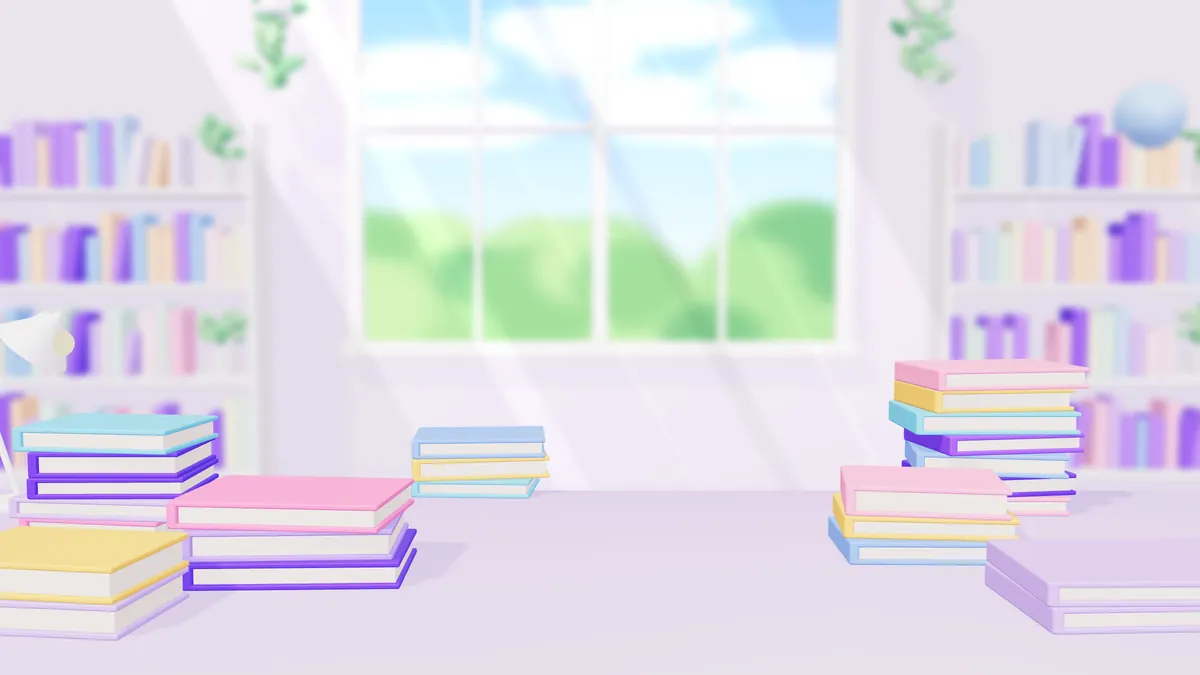
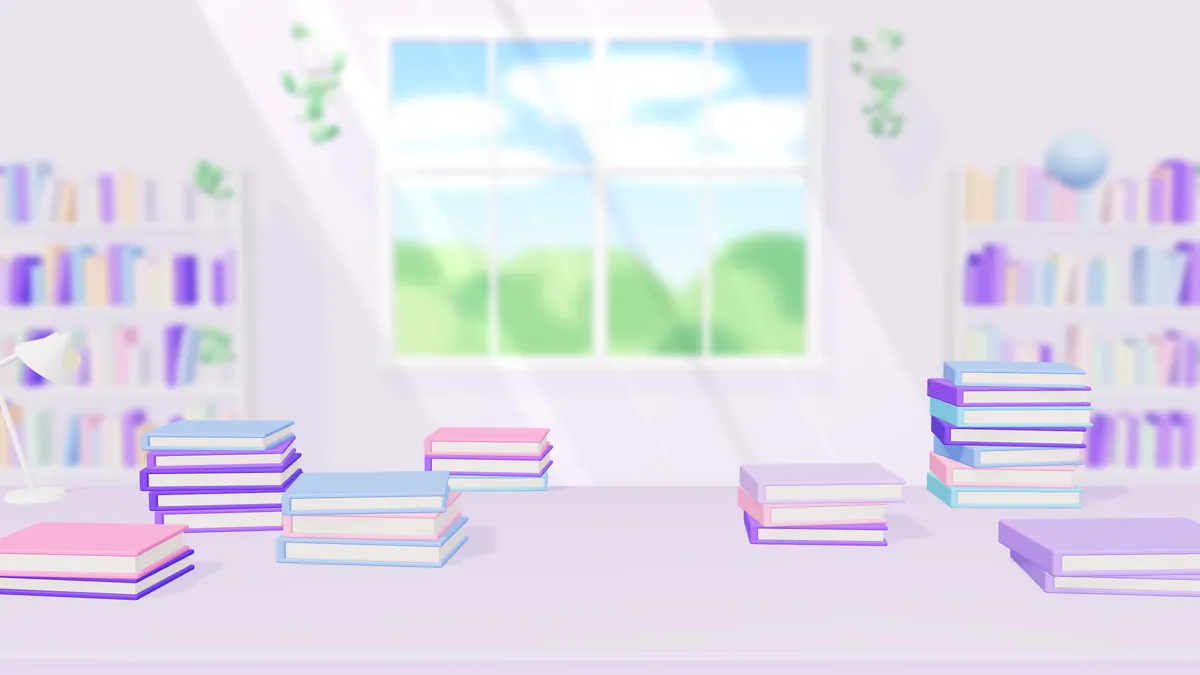
Balance the heroes on wide screens and refresh the stats
- Hero copy keeps hugging the left rail instead of drifting to the middle
- Wider content rail above 1500px so pages stop floating in empty margins
- About room camera pulled back: the cast reads smaller and evenly spaced
- Stats now read 500+, 10,000+, 4.9/5 and 10+ AP STEM subjects
- Bigger founder portrait with stickers clear of the copy

diff --git a/frontend/src/pages/AboutUsPage.css b/frontend/src/pages/AboutUsPage.css
@@ -100,8 +100,8 @@
 .ace-about__live-acey {
   position: absolute;
   left: 50%;
-  top: 42%;
-  height: 55%;
+  top: 46.5%;
+  height: 45.3%;
   aspect-ratio: 540 / 690;
   z-index: 20;
   padding: 0;
@@ -300,7 +300,7 @@
 .ace-about__founder {
   position: relative;
   display: grid;
-  grid-template-columns: minmax(0, 1fr) minmax(0, .92fr) minmax(0, 1.05fr);
+  grid-template-columns: minmax(0, .92fr) minmax(0, 1.16fr) minmax(0, 1fr);
   gap: 26px;
   align-items: center;
   margin-top: 30px;
@@ -335,7 +335,7 @@
 .ace-about__founder-copy .ace-about__body strong { color: var(--ace-ink); font-weight: 850; }
 .ace-about__founder-copy .ace-about__btn { margin-top: 22px; }
 
-.ace-about__founder-photo { position: relative; padding: 26px 18px 34px; }
+.ace-about__founder-photo { position: relative; padding: 30px 8px 40px; }
 .ace-about__founder-frame {
   position: relative;
   z-index: 1;
@@ -368,11 +368,11 @@
 /* stickers */
 .ace-about__sticker { position: absolute; z-index: 2; pointer-events: none; filter: drop-shadow(0 8px 12px rgba(120, 80, 190, .18)); }
 .is-visible .ace-about__sticker { animation: ace-about-float 5.4s ease-in-out infinite; }
-.ace-about__sticker--brain-a { left: -9%; top: 0; width: 32%; animation-delay: -.8s; }
-.ace-about__sticker--brain-b { right: -9%; bottom: 18%; width: 30%; animation-delay: -2.4s; }
-.ace-about__sticker--heart-a { right: -6%; top: 2%; width: 26%; animation-delay: -1.6s; }
-.ace-about__sticker--heart-b { left: 0; bottom: 6%; width: 23%; animation-delay: -3.2s; }
-.ace-about__sticker--robot { left: -12%; bottom: 22%; width: 27%; animation-delay: -2s; }
+.ace-about__sticker--brain-a { left: -5%; top: 0; width: 30%; animation-delay: -.8s; }
+.ace-about__sticker--brain-b { right: -6%; bottom: 18%; width: 28%; animation-delay: -2.4s; }
+.ace-about__sticker--heart-a { right: -3%; top: 2%; width: 24%; animation-delay: -1.6s; }
+.ace-about__sticker--heart-b { left: 4%; bottom: 4%; width: 22%; animation-delay: -3.2s; }
+.ace-about__sticker--robot { left: -5%; bottom: 20%; width: 25%; animation-delay: -2s; }
 .ace-about__sticker--twinkle-a { left: 16%; top: -2%; width: 8%; animation: ace-about-twinkle 3.2s ease-in-out infinite; }
 .ace-about__sticker--twinkle-b { right: 16%; top: 40%; width: 7%; animation: ace-about-twinkle 3.8s ease-in-out .7s infinite; }
 .ace-about__sticker--twinkle-c { left: 24%; bottom: 2%; width: 6.5%; animation: ace-about-twinkle 4.2s ease-in-out 1.4s infinite; }
@@ -491,7 +491,7 @@
   .ace-about { padding-inline: 16px; }
   .ace-about .ace-about__hero { margin-inline: -16px; padding-inline: 16px; }
   .ace-about__hero h1 { font-size: clamp(3rem, 15vw, 4rem); }
-  .ace-about__hero .ace-about__hero-scene { width: calc(100% + 32px); height: 96vw; }
+  .ace-about__hero .ace-about__hero-scene { width: calc(100% + 32px); height: min(120vw, 540px); }
   .ace-about__actions .ace-about__btn { flex: 1 1 auto; }
   .ace-about__traits { grid-template-columns: repeat(2, minmax(0, 1fr)); }
   .ace-about__closer { padding: 18px 10px 12px; border-radius: 24px; }

diff --git a/frontend/src/components/home/HeroSection.js b/frontend/src/components/home/HeroSection.js
@@ -26,10 +26,10 @@ const SPARKLES = [
 ];
 
 const STATS = [
-  { icon: 'cap', value: 1000, suffix: '+', label: 'Students supported' },
-  { icon: 'doc', value: 50000, suffix: '+', label: 'Problems solved' },
+  { icon: 'cap', value: 500, suffix: '+', label: 'Students supported' },
+  { icon: 'doc', value: 10000, suffix: '+', label: 'Problems solved' },
   { icon: 'spark', value: 4.9, decimals: 1, suffix: '/5', label: 'User satisfaction' },
-  { icon: 'heart', text: 'A kinder', label: 'way to learn STEM' },
+  { icon: 'books', value: 10, suffix: '+', label: 'AP STEM subjects' },
 ];
 
 const StatIcon = ({ name }) => {
@@ -37,6 +37,7 @@ const StatIcon = ({ name }) => {
   if (name === 'cap') return <svg {...common}><path d="M2 9l10-5 10 5-10 5z" /><path d="M6 11v5c2 2 10 2 12 0v-5M22 9v6" /></svg>;
   if (name === 'doc') return <svg {...common}><path d="M6 3h9l4 4v14H6z" /><path d="M14 3v5h5M9 12h7M9 16h7" /></svg>;
   if (name === 'spark') return <svg {...common}><path d="M12 3c.6 4.8 2.4 7.4 8 9-5.6 1.6-7.4 4.2-8 9-.6-4.8-2.4-7.4-8-9 5.6-1.6 7.4-4.2 8-9z" /></svg>;
+  if (name === 'books') return <svg {...common}><path d="M4 19h13M6 19V8h4v11M12 19V5h4v14M17.4 19l2.6-9.6-3.4-.9" /></svg>;
   return <svg {...common}><path d="M12 20C6.5 16.2 3 12.9 3 8.7 3 6 5 4 7.6 4c1.8 0 3.4 1 4.4 2.5C13 5 14.6 4 16.4 4 19 4 21 6 21 8.7c0 4.2-3.5 7.5-9 11.3z" /></svg>;
 };
 

diff --git a/frontend/src/pages/AboutUsPage.js b/frontend/src/pages/AboutUsPage.js
@@ -10,13 +10,13 @@ import './AboutUsPage.css';
 // camera that rendered it (tmp/hero-scene.html). The Original in the middle is
 // the live 3D Acey, so it is not in this list (see HERO_LIVE_SLOT).
 const HERO_CHARACTERS = [
-  { id: 'classic', x: 10.02, y: 62.33, h: 27.03, depth: -0.6 },
-  { id: 'long-vest', x: 39.79, y: 64.16, h: 21.03, depth: -3.6 },
-  { id: 'graduation', x: 82.37, y: 53.91, h: 24.29, depth: -2.4 },
-  { id: 'hoodie', x: 25.21, y: 72.53, h: 29.83, depth: 1.2 },
-  { id: 'vest', x: 76.47, y: 70.77, h: 27.76, depth: 0.2 },
-  { id: 'artist', x: 5.39, y: 80.76, h: 34.48, depth: 2.8 },
-  { id: 'cloak', x: 94.64, y: 82.69, h: 33.11, depth: 2.6 },
+  { id: 'classic', x: 18.64, y: 63.26, h: 22.62, depth: -0.6 },
+  { id: 'long-vest', x: 41.2, y: 64.1, h: 18.11, depth: -3.6 },
+  { id: 'graduation', x: 84.04, y: 54.11, h: 20.7, depth: -2.4 },
+  { id: 'hoodie', x: 31.43, y: 71.34, h: 24.46, depth: 1.2 },
+  { id: 'vest', x: 68.06, y: 69.87, h: 23.05, depth: 0.2 },
+  { id: 'artist', x: 6.94, y: 79.29, h: 27.59, depth: 2.8 },
+  { id: 'cloak', x: 93.14, y: 78.99, h: 26.64, depth: 2.6 },
 ].map((character) => ({ ...character, src: `/hero/acey-${character.id}.webp` }));
 
 const HERO_SPARKLES = [

diff --git a/frontend/src/components/home/HeroSection.css b/frontend/src/components/home/HeroSection.css
@@ -230,6 +230,13 @@
 @keyframes ace-hero-wheel { 0% { transform: translateY(0); opacity: 1; } 70% { transform: translateY(8px); opacity: 0; } 100% { transform: translateY(0); opacity: 0; } }
 @keyframes ace-hero-nudge { 0%, 100% { translate: 0 0; } 50% { translate: 0 3px; } }
 
+/* On wide screens the copy would drift to the middle of an empty room;
+   widen the hero rail so it keeps hugging the left with the cast on the right. */
+@media (min-width: 1400px) {
+  .ace-hero__inner, .ace-hero__bottom { width: min(var(--ace-content), calc(100% - 80px)); }
+  .ace-hero__copy { max-width: 600px; }
+}
+
 /* ---------- responsive ---------- */
 @media (min-width: 761px) and (max-height: 780px) {
   .ace-hero h1 { font-size: clamp(3rem, 5vw, 4.6rem); }

diff --git a/frontend/src/styles/main.css b/frontend/src/styles/main.css
@@ -176,6 +176,10 @@
   --breakpoint-xl: 1280px;
   --breakpoint-2xl: 1536px;
 }
+/* Big screens keep a wider reading rail so pages do not float in empty margins. */
+@media (min-width: 1500px) { :root { --ace-content: 1360px; } }
+@media (min-width: 1750px) { :root { --ace-content: 1480px; } }
+
 
 /* ------------------- */
 /* Global Styles       */
